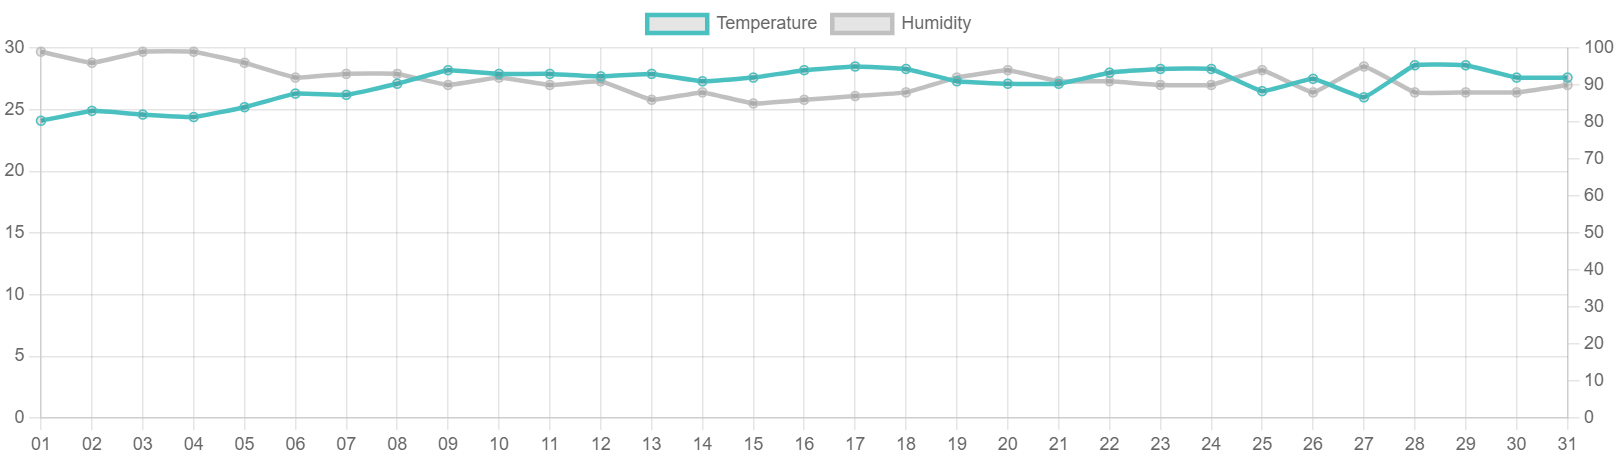
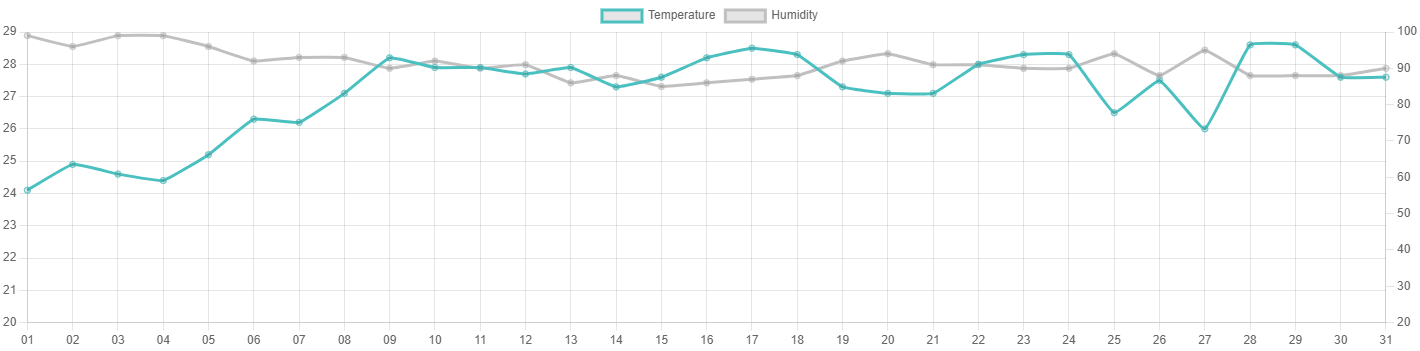
Amending the graphs to start at 20 instead of 0. Amend an attribute in Chart_Scripts.js to not being at zero

diff --git a/Static/js/Chart_Scripts.js b/Static/js/Chart_Scripts.js
@@ -64,13 +64,15 @@ function createLineChart(labels, dataHumi, dataTemp, canvasName) {
                 },
                 scales: {
                     y: {
-                        beginAtZero: true,
+                        beginAtZero: false,
+                        suggestedMin : 20,
                         type: 'linear',
                         display: true,
                         position: 'left',
                     },
                     y1: {
-                        beginAtZero: true,
+                        beginAtZero: false,
+                        suggestedMin : 20,
                         type: 'linear',
                         display: true,
                         position: 'right',
